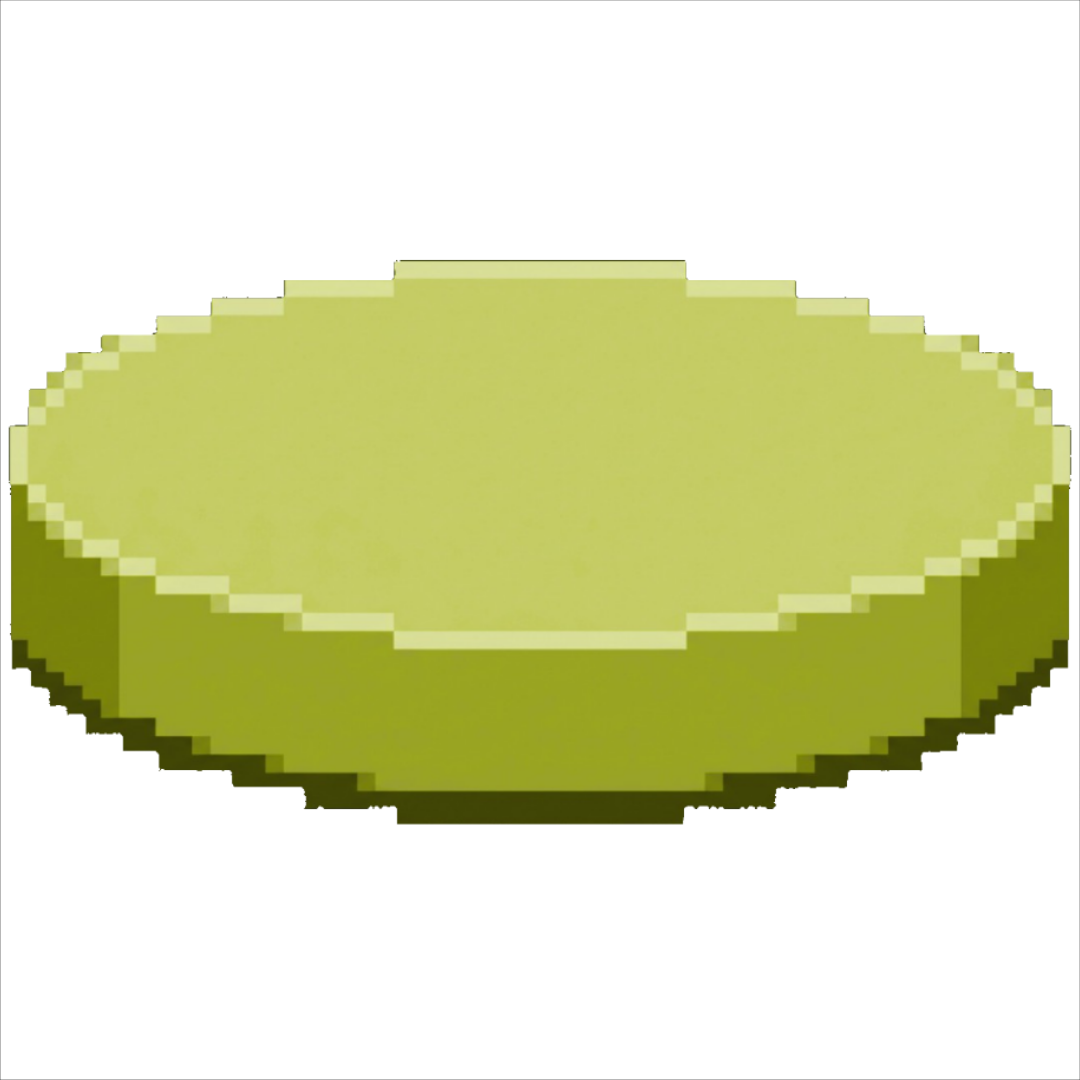
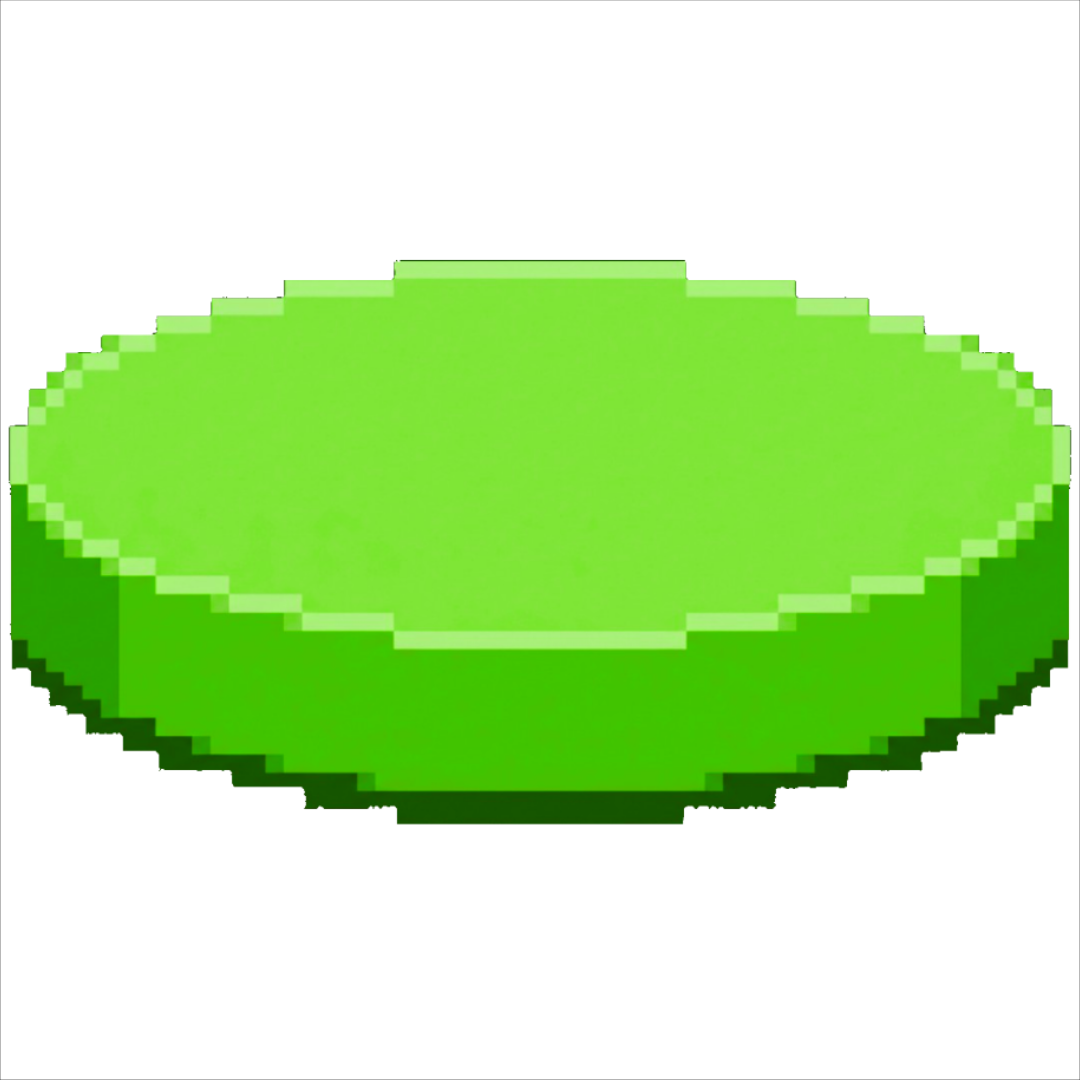
feat-first-phase: avartar and start on map

diff --git a/frontend/src/components/MapBackground.tsx b/frontend/src/components/MapBackground.tsx
@@ -1,8 +1,10 @@
 import { useNavigate } from 'react-router-dom';
-import { baseGrayImage, baseGreenImage, basePinkImage, mapModule1Image, mapModule2Image, stickImage } from '../assets';
+import { baseGrayImage, baseGreenImage, baseOrangeImage, mapModule1Image, mapModule2Image, stickImage } from '../assets';
 import { mapStrings } from '../strings/pt-br/map';
 import { allModulePhases, type Phase } from '../phases';
 import { useAuth } from '../contexts/AuthContext';
+import StarRating from './StarRating';
+import { getAvatarImageById } from '../utils/avatarHelper';
 
 export interface IModules {
   image: string;
@@ -56,24 +58,28 @@ function HorizontalStick({ title }: { title: string }) {
   );
 }
 
-function checkLevelStatus(phaseId: number): {discImage: string, color: string, canAccess: boolean} {
+function checkLevelStatus(phaseId: number): {discImage: string, color: string, canAccess: boolean, showStars: boolean, showAvatar: boolean} {
   const {level} = useAuth();
   
   if(level >= phaseId) {
-    return { discImage: baseGreenImage, color: 'text-lime-700', canAccess: true };
+    return { discImage: baseGreenImage, color: 'text-lime-700', canAccess: true, showStars: true, showAvatar: false };
   }
   if(level + 1 === phaseId) {
-    return { discImage: basePinkImage, color: 'text-pink-500', canAccess: true };
+    return { discImage: baseOrangeImage, color: 'text-orange-600', canAccess: true, showStars: false, showAvatar: true };
   }
-  return { discImage: baseGrayImage, color: 'text-gray-600', canAccess: false };
+  return { discImage: baseGrayImage, color: 'text-gray-600', canAccess: false, showStars: false, showAvatar: false };
 }
 
 function PhaseDisc({ phase, index, moduleId }: { phase: Phase; index: number; moduleId: number }) {
   
   const navigate = useNavigate();
-  const position = getDiscPosition(index);  
+  const position = getDiscPosition(index);
 
-  const {discImage, color, canAccess} = checkLevelStatus(phase.id);
+  const {avatarId} = useAuth();
+  const avatarImage = getAvatarImageById(avatarId);
+  
+
+  const {discImage, color, canAccess, showStars, showAvatar} = checkLevelStatus(phase.id);
   return (
     <button
       className="absolute flex flex-col items-center cursor-pointer bg-transparent border-none p-0"
@@ -87,12 +93,19 @@ function PhaseDisc({ phase, index, moduleId }: { phase: Phase; index: number; mo
       onClick={() => navigate(`/phase/module${moduleId}/${phase.id}`)}
       disabled={!canAccess}
     >
+      {showAvatar && avatarImage && (
+        <img
+          src={avatarImage}
+          className='absolute z-5 w-27 bottom-20 hover:opacity-60 transition-opacity'   
+        /> 
+      )}
       <img
         src={discImage}
         alt={phase.name}
-        className="w-20 h-20 drop-shadow-lg"
+        className="w-30 h-30 drop-shadow-lg"
       />
-      <span className={`-mt-15 text-xl font-bold font-start ${color} drop-shadow text-center`}>
+      {showStars && <StarRating className='absolute -bottom-1' rating='perfect'/>}
+      <span className={`absolute bottom-13 text-2xl font-bold font-start ${color} drop-shadow text-center`}>
         {phase.id}
       </span>
     </button>

diff --git a/frontend/src/components/StarRating.tsx b/frontend/src/components/StarRating.tsx
@@ -4,6 +4,7 @@ type StarRatingValue = 'perfect' | 'ok' | 'bad';
 
 interface StarRatingProps {
   rating?: StarRatingValue;
+  className?: string;
 }
 
 const STAR_COUNT = 3;
@@ -14,11 +15,11 @@ const filledCountByRating: Record<StarRatingValue, number> = {
   perfect: 3,
 };
 
-export default function StarRating({ rating }: StarRatingProps) {
+export default function StarRating({ rating, className }: StarRatingProps) {
   const filledCount = rating ? filledCountByRating[rating] : 0;
 
   return (
-    <div className="flex items-center gap-1 shadow-lg bg-amber-900 rounded-sm px-2 py-1">
+    <div className={`flex items-center gap-1 ${className}`}>
       {Array.from({ length: STAR_COUNT }, (_, i) => {
         const isFilled = i < filledCount;
         if (isFilled) {

diff --git a/frontend/src/assets/index.ts b/frontend/src/assets/index.ts
@@ -20,7 +20,7 @@ import character8Image from "./characters/character8.png";
 // Bases
 import baseGrayImage from "./bases/baseGray.png";
 import baseGreenImage from "./bases/baseGreen.png";
-import basePinkImage from "./bases/basePink.png";
+import baseOrangeImage from "./bases/baseOrange.png";
 
 // Maps
 import mapModule1Image from "./maps/mapModule1.png";
@@ -45,7 +45,7 @@ import potionBlueTagImage from "./module1/potionBlueTag.png";
 export {
  baseGrayImage,
  baseGreenImage,
- basePinkImage,
+ baseOrangeImage,
  mapModule1Image,
  mapModule2Image,
  stickImage,

diff --git a/frontend/src/components/phases/PhaseBase.tsx b/frontend/src/components/phases/PhaseBase.tsx
@@ -110,7 +110,10 @@ export default function PhaseBase({
               {moduleName}
             </h1>
             {isCorrect && (
+              <div className=' shadow-lg bg-amber-900 rounded-sm px-2 py-1'>
                 <StarRating rating='perfect'/>
+              </div>
+                
             )}
             <span className="text-base bg-sky-800 font-semibold rounded-sm px-2 text-white uppercase tracking-widest">
               Fase {phase.id}